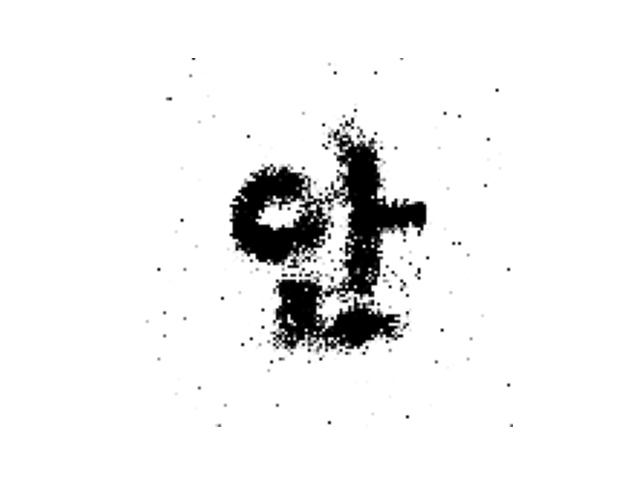
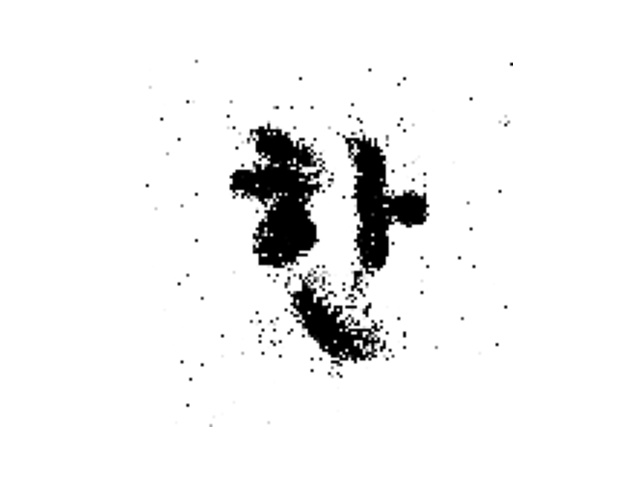
feat: get sign image at the watermark page

diff --git a/signMaker/templates/signMaker/watermark.html b/signMaker/templates/signMaker/watermark.html
@@ -198,7 +198,7 @@ input[type=range]::-webkit-slider-runnable-track {
                 </div>
                 <div class="controls__imgs">
                     <div class="controls_img">
-                        <img class="sign_img" id="sign-img" src="img/sign.png" alt="" loading="lazy" width="120px"><br>
+                        <img class="sign_img" id="sign-img" src="{{ path }}" alt="" loading="lazy" width="120px"><br>
                     </div>
                     <div class="controls_img">
                         <input type="radio" name="img-location" id="no-img" value="no-img" checked="checked">

diff --git a/signMaker/views.py b/signMaker/views.py
@@ -1,3 +1,4 @@
+import shutil
 from django.http.request import HttpRequest
 from django.http.response import HttpResponse, JsonResponse
 from django.shortcuts import redirect, render
@@ -6,9 +7,9 @@ from .models import preservedResult
 import os
 import json
 import sys
-sys.path.insert(1, 'C:/Users/1102k/Desktop/workspace/TheSignature-Web/signMaker/ml/')
+sys.path.insert(
+    1, 'C:/Users/1102k/Desktop/workspace/TheSignature-Web/signMaker/ml/')
 import ml_model
-import shutil
 
 secret_file = os.path.realpath('./secrets.json')
 
@@ -46,12 +47,18 @@ def mainPage(request):
 
 
 def watermarkPage(request):
+    rows = preservedResult.objects.filter(
+        owner_email=request.session['user_email']).values()
+    
     if session_existence(request):
-         return render(request, 'signMaker/watermark.html')
+        if len(rows) > 0:
+            return render(request, 'signMaker/watermark.html', {'path': rows[0]['result_path']})
+        else:
+            return render(request, 'signMaker/watermark.html')
     else:
         return redirect('login')
-    
-    
+
+
 def passOptions(request):
     if not session_existence(request):
         return redirect('login')
@@ -65,22 +72,27 @@ def passOptions(request):
         "pointLetter": request.GET['pointLetter']
     }
     return render(request, 'signMaker/signCreate.html', data)
-    
+
 
 def preserveResult(request):
     if not session_existence(request):
         return redirect('login')
-    rows = preservedResult.objects.filter(owner_email=request.session['user_email'])
+    rows = preservedResult.objects.filter(
+        owner_email=request.session['user_email'])
     path = ""
-    if len(rows) < 5 :
-        path += shutil.copy("./signMaker/static/ml_result/" + request.GET['file_name'], "./signMaker/preservedResult/" + request.session['user_email'] + str(len(rows) + 1) + ".jpg")
-        preservedResult.objects.create(owner_email=request.session['user_email'], owner_last_name_kr=request.session['user_name'], result_path=path)
+    if len(rows) < 5:
+        path += shutil.copy("./signMaker/static/ml_result/" +
+                            request.GET['file_name'], "./signMaker/preservedResult/" + request.session['user_email'] + str(len(rows) + 1) + ".jpg")
+        preservedResult.objects.create(owner_email=request.session['user_email'], owner_last_name_kr=request.session['user_name'],
+                                       result_path="../../signMaker/preservedResult/" + request.session['user_email'] + str(len(rows) + 1) + ".jpg")
     return render(request, 'signMaker/signCreate.html')
 
+
 def is_storable(request):
-    rows = preservedResult.objects.filter(owner_email=request.session['user_email'])
+    rows = preservedResult.objects.filter(
+        owner_email=request.session['user_email'])
     path = ""
-    if len(rows) < 5 :
+    if len(rows) < 5:
         return HttpResponse('True')
     else:
         return HttpResponse('False')

diff --git a/signMaker/urls.py b/signMaker/urls.py
@@ -1,6 +1,7 @@
 from . import views
 from django.urls import path
-
+from django.conf import settings
+from django.conf.urls.static import static
 
 urlpatterns = [
     path('home/',views.mainPage, name="home"),
@@ -11,4 +12,4 @@ urlpatterns = [
     path('drawing/',views.drawingPage, name="drawing"),
     path('watermark/',views.watermarkPage, name="watermark")
 
-]
+] + static(settings.MEDIA_URL, document_root=settings.MEDIA_ROOT)

diff --git a/theSignature/settings.py b/theSignature/settings.py
@@ -137,3 +137,6 @@ EMAIL_HOST_PASSWORD = get_secret("HOST_EMAIL_PASSWD")
 EMAIL_USE_TLS = True
 # TLS 보안 방법
 DEFAULT_FROM_EMAIL = EMAIL_HOST_USER
+
+MEDIA_URL = 'preservedResult/'
+MEDIA_ROOT = os.path.join(BASE_DIR, 'signMaker', 'preservedResult')
